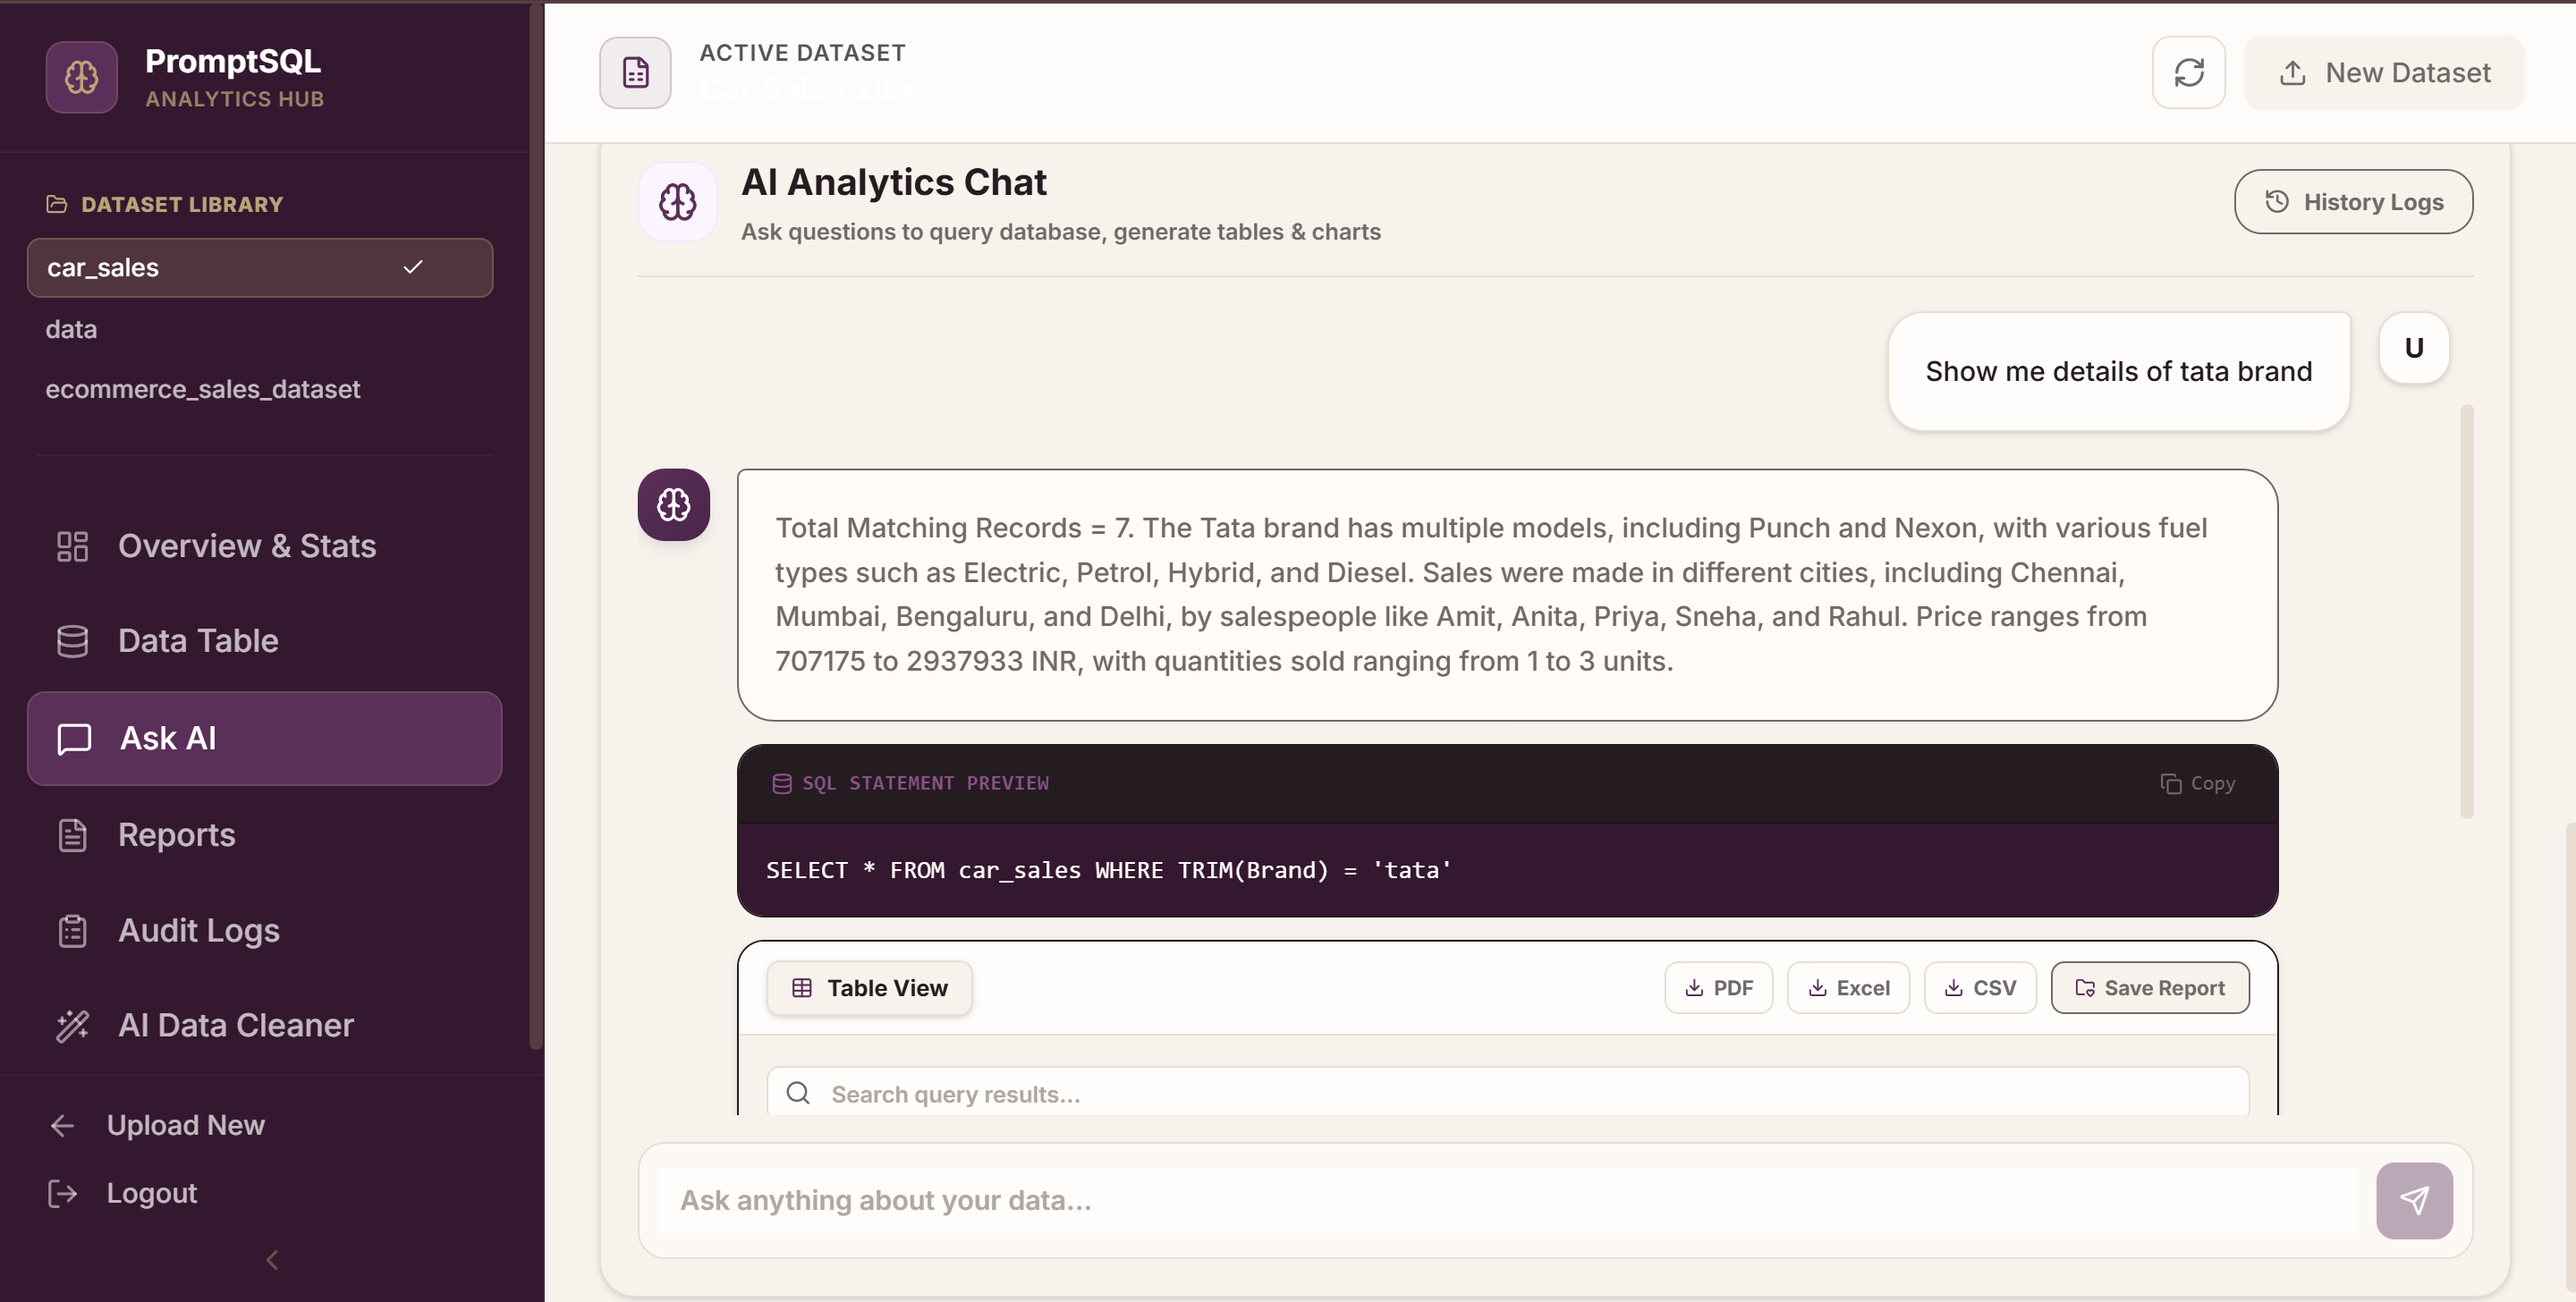
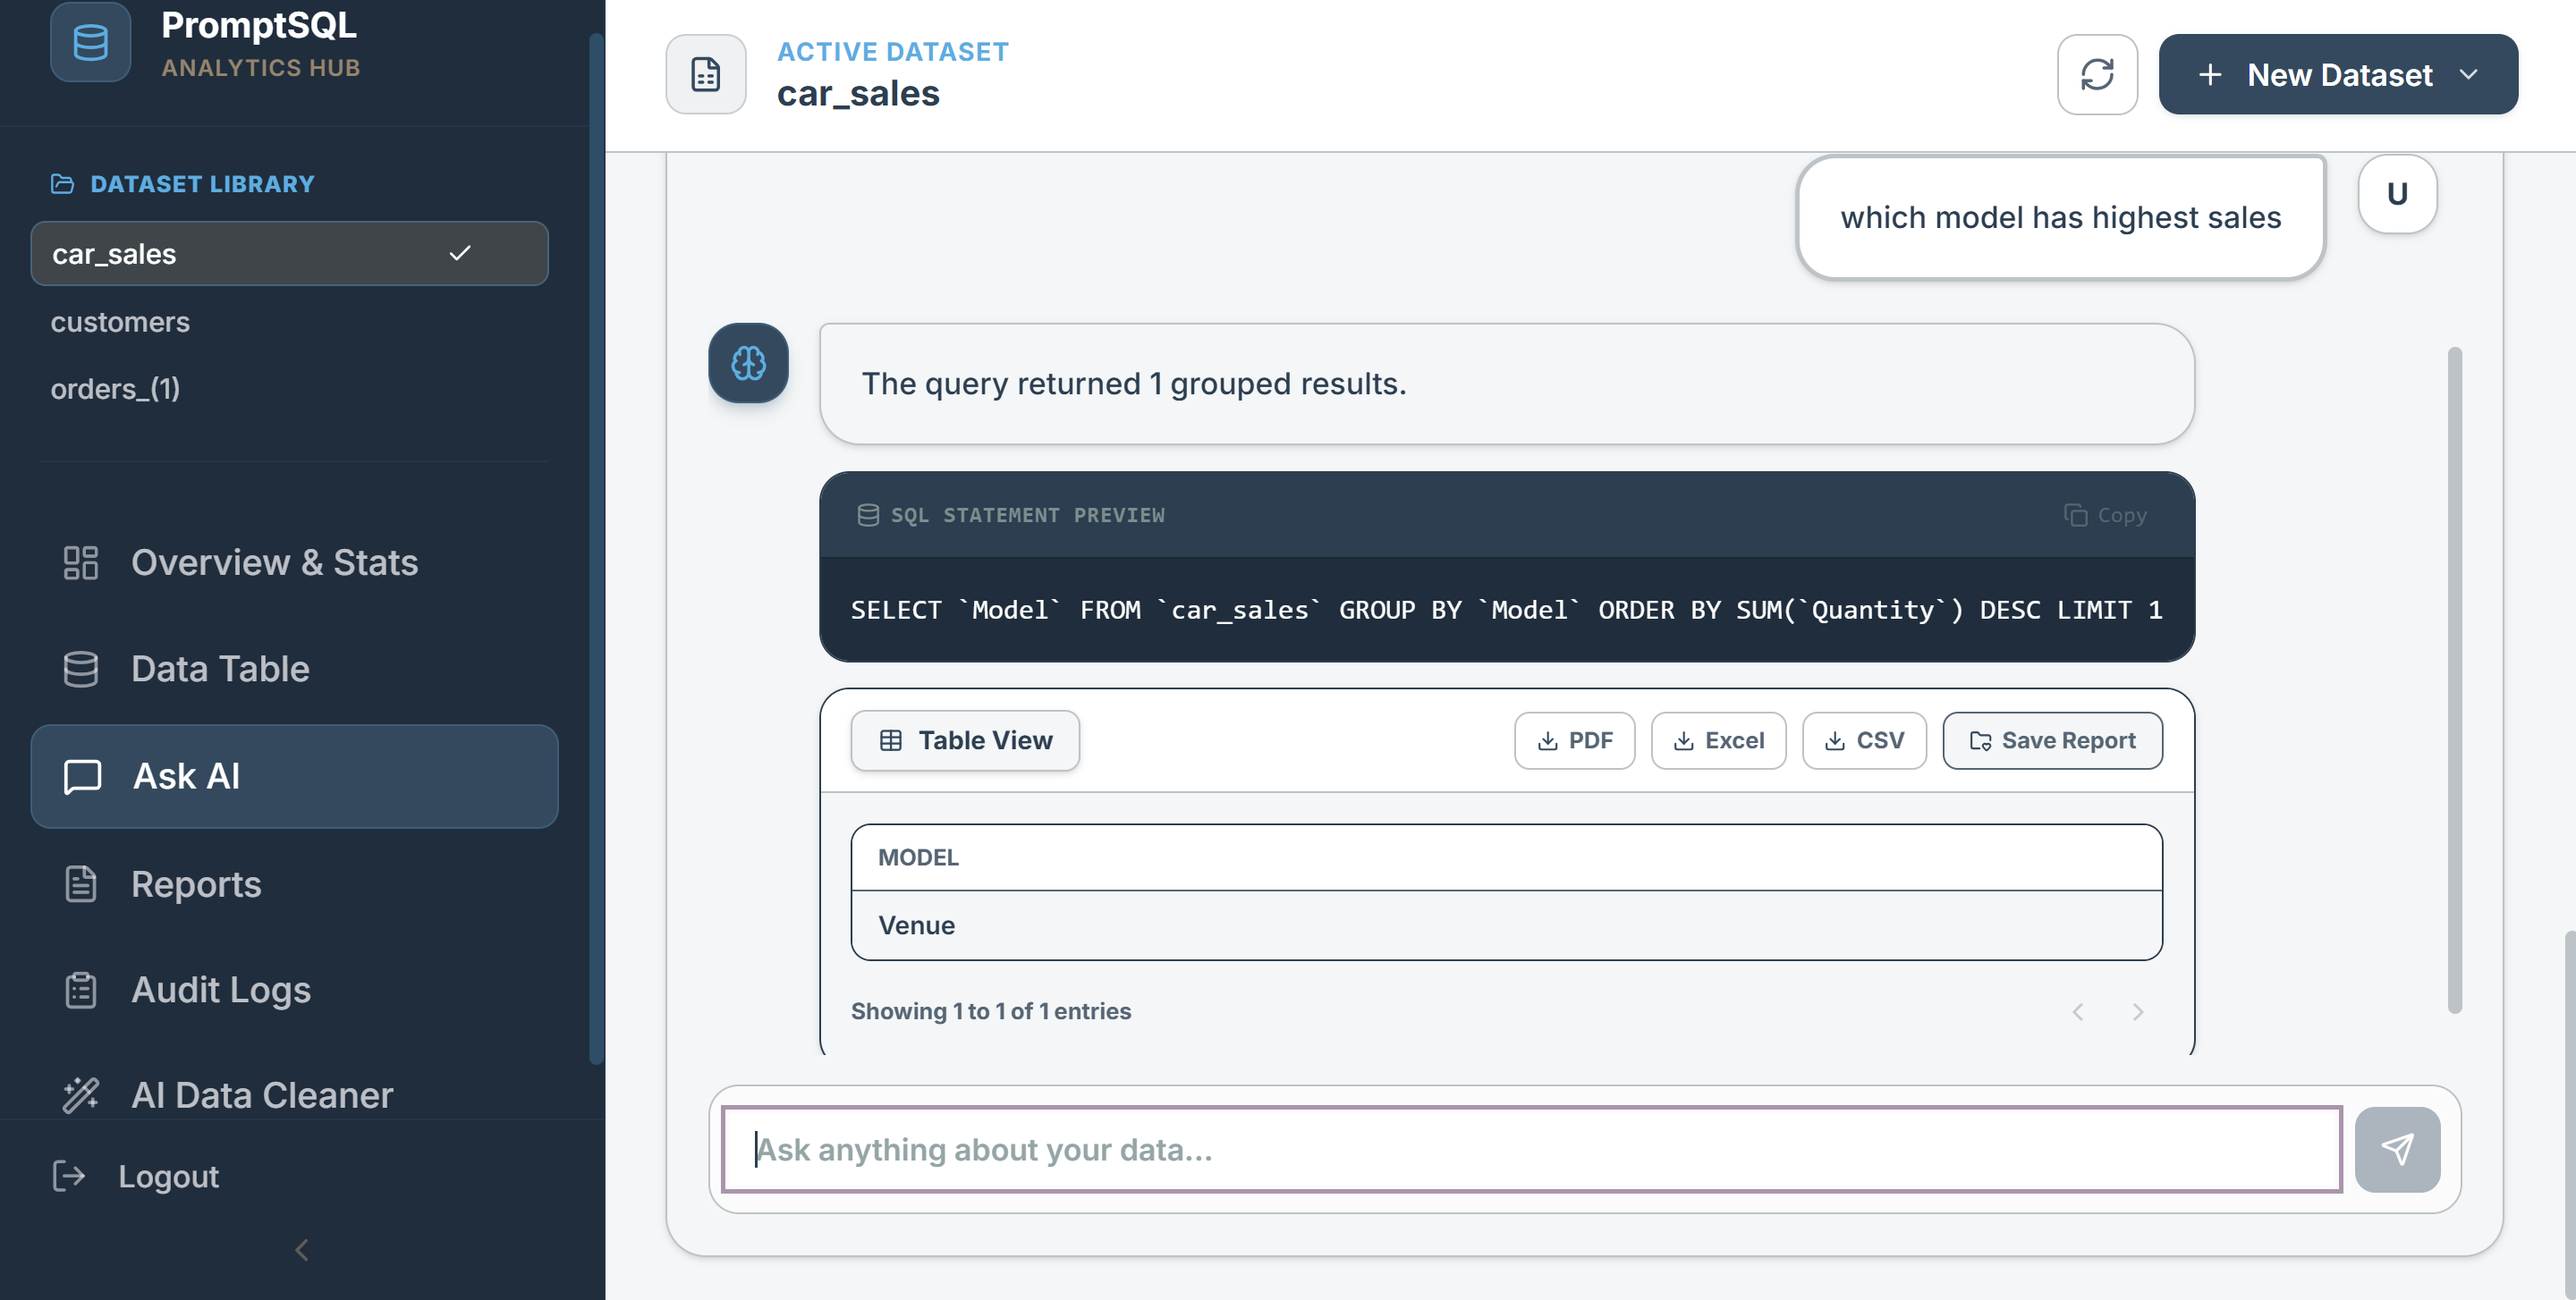
change of image

diff --git a/frontend/src/components/Hero.tsx b/frontend/src/components/Hero.tsx
@@ -39,28 +39,28 @@ export default function Hero({ onStartQuery }: HeroProps) {
   const navigate = useNavigate();
 
   return (
-    <section className="relative min-h-screen flex flex-col items-center justify-center overflow-hidden bg-[#F7F2EC]">
+    <section className="relative min-h-screen flex flex-col items-center justify-center overflow-visible py-12 bg-[#F7F2EC]">
       {/* Soft radial glows matching new palette */}
       <div className="absolute inset-0 pointer-events-none">
-        <div className="absolute top-1/2 left-1/2 -translate-x-1/2 -translate-y-1/2 w-[900px] h-[600px] bg-[#5A2F59]/6 rounded-full blur-[120px]" />
-        <div className="absolute top-1/4 right-1/4 w-[400px] h-[400px] bg-[#BDA37A]/8 rounded-full blur-[100px]" />
-        <div className="absolute bottom-1/4 left-1/4 w-[350px] h-[350px] bg-[#5A2F59]/5 rounded-full blur-[80px]" />
+        <div className="absolute top-1/2 left-1/2 -translate-x-1/2 -translate-y-1/2 w-[900px] h-[600px] bg-[#34495E]/6 rounded-full blur-[120px]" />
+        <div className="absolute top-1/4 right-1/4 w-[400px] h-[400px] bg-[#5DADE2]/8 rounded-full blur-[100px]" />
+        <div className="absolute bottom-1/4 left-1/4 w-[350px] h-[350px] bg-[#34495E]/5 rounded-full blur-[80px]" />
       </div>
 
       {/* Subtle warm grid pattern */}
       <div
         className="absolute inset-0 opacity-[0.04] pointer-events-none"
         style={{
-          backgroundImage: `linear-gradient(rgba(90,47,89,0.15) 1px, transparent 1px), linear-gradient(90deg, rgba(90,47,89,0.15) 1px, transparent 1px)`,
+          backgroundImage: `linear-gradient(rgba(52,73,94,0.15) 1px, transparent 1px), linear-gradient(90deg, rgba(52,73,94,0.15) 1px, transparent 1px)`,
           backgroundSize: "80px 80px",
         }}
       />
 
-      <div className="relative z-10 max-w-5xl mx-auto px-6 text-center pt-28 pb-20">
+      <div className="relative z-10 max-w-5xl mx-auto px-6 text-center pt-10 pb-6">
         {/* Announcement badge */}
         <a
           href="#features"
-          className="inline-flex items-center gap-2 bg-[#5A2F59]/8 border border-[#5A2F59]/20 hover:border-[#5A2F59]/40 px-4 py-1.5 rounded-full text-xs font-medium text-[#5A2F59] hover:text-[#4A2549] transition-all duration-300 mb-8 group cursor-pointer"
+          className="inline-flex items-center gap-2 bg-[#5A2F59]/8 border border-[#5A2F59]/20 hover:border-[#5A2F59]/40 px-4 py-1.5 rounded-full text-xs font-medium text-[#5A2F59] hover:text-[#4A2549] transition-all duration-300 mb-4 group cursor-pointer"
         >
           <div className="w-1.5 h-1.5 bg-[#5A2F59] rounded-full animate-pulse" />
           <span>Introducing AI-Powered Data Cleaning Suite</span>
@@ -68,7 +68,7 @@ export default function Hero({ onStartQuery }: HeroProps) {
         </a>
 
         {/* Main heading */}
-        <h1 className="text-5xl md:text-7xl font-bold tracking-tight text-[#241C20] leading-[1.05] mb-6">
+        <h1 className="text-4xl md:text-6xl font-bold tracking-tight text-[#2C3E50] leading-[1.05] mb-4">
           <span className="block gradient-text">
             <Typewriter text="Natural Language" speed={50} />
           </span>
@@ -76,17 +76,17 @@ export default function Hero({ onStartQuery }: HeroProps) {
             <span className="gradient-text-purple">
               <Typewriter text="Meets SQL Intelligence" delay={1200} speed={50} />
             </span>
-            <span className="inline-block w-0.5 h-12 md:h-16 bg-[#5A2F59] ml-2 animate-blink align-middle opacity-80" />
+            <span className="inline-block w-0.5 h-12 md:h-16 bg-[#34495E] ml-2 animate-blink align-middle opacity-80" />
           </span>
         </h1>
 
         {/* Subtitle */}
-        <p className="text-lg md:text-xl text-[#6F6A67] max-w-2xl mx-auto leading-relaxed mb-10 font-normal">
+        <p className="text-base md:text-lg text-[#566573] max-w-2xl mx-auto leading-relaxed mb-6 font-normal">
           Upload any dataset and interrogate it with plain English. PromptSQL maps your schema and generates optimized SQL — no query writing needed.
         </p>
 
         {/* CTA button */}
-        <div className="flex flex-col sm:flex-row gap-3 justify-center items-center mb-16">
+        <div className="flex flex-col sm:flex-row gap-3 justify-center items-center mb-6">
           <button
             onClick={() => {
               if (onStartQuery) {
@@ -95,20 +95,20 @@ export default function Hero({ onStartQuery }: HeroProps) {
                 navigate("/upload");
               }
             }}
-            className="group relative w-full sm:w-auto bg-[#5A2F59] hover:bg-[#4A2549] text-[#FFFDFC] font-semibold px-7 py-3.5 rounded-xl text-sm transition-all duration-200 flex items-center justify-center gap-2.5 cursor-pointer shadow-lg shadow-[#5A2F59]/20"
+            className="group relative w-full sm:w-auto bg-[#34495E] hover:bg-[#2C3E50] border border-[#5DADE2]/30 hover:border-[#5DADE2]/60 text-white font-semibold px-7 py-3.5 rounded-xl text-sm transition-all duration-200 flex items-center justify-center gap-2.5 cursor-pointer shadow-lg shadow-[#34495E]/15"
           >
-            <Sparkles size={15} className="text-[#BDA37A]" />
+            <Sparkles size={15} className="text-[#5DADE2]" />
             <span>Start Querying </span>
             <ArrowRight size={15} className="group-hover:translate-x-0.5 transition-transform" />
           </button>
         </div>
 
         {/* Stats row */}
-        <div className="flex flex-col sm:flex-row items-center justify-center gap-8 sm:gap-12 mb-16">
+        <div className="flex flex-col sm:flex-row items-center justify-center gap-8 sm:gap-12 mb-4">
           {STATS.map((stat, i) => (
             <div key={i} className="text-center">
-              <div className="text-2xl font-bold text-[#5A2F59]">{stat.value}</div>
-              <div className="text-xs text-[#6F6A67] mt-0.5">{stat.label}</div>
+              <div className="text-2xl font-bold text-[#34495E]">{stat.value}</div>
+              <div className="text-xs text-[#566573] mt-0.5">{stat.label}</div>
             </div>
           ))}
         </div>
@@ -120,7 +120,7 @@ export default function Hero({ onStartQuery }: HeroProps) {
       </div>
 
       {/* Bottom gradient fade */}
-      <div className="absolute bottom-0 left-0 right-0 h-32 bg-gradient-to-t from-[#F7F2EC] to-transparent pointer-events-none" />
+      <div className="absolute bottom-0 left-0 right-0 h-32 bg-gradient-to-t from-[#F4F6F7] to-transparent pointer-events-none" />
     </section>
   );
 }

diff --git a/README.md b/README.md
@@ -36,7 +36,7 @@
       <br>
     </td>
     <td align="center">
-      <img src="images/ai cleaner.png" alt="Description of Image 4" width="400" />
+      <img src="images/AI data cleaner.png" alt="Description of Image 4" width="400" />
       <br>
     </td>
   </tr>
